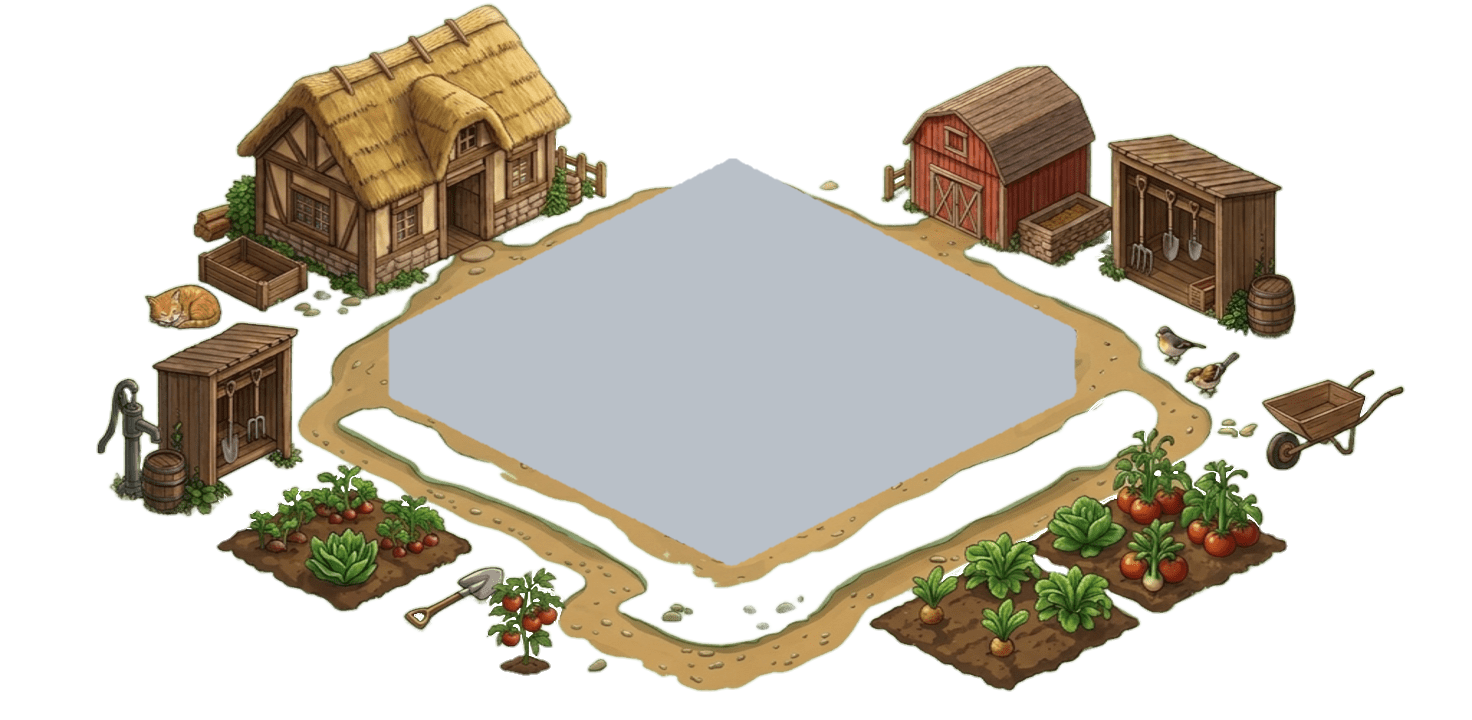
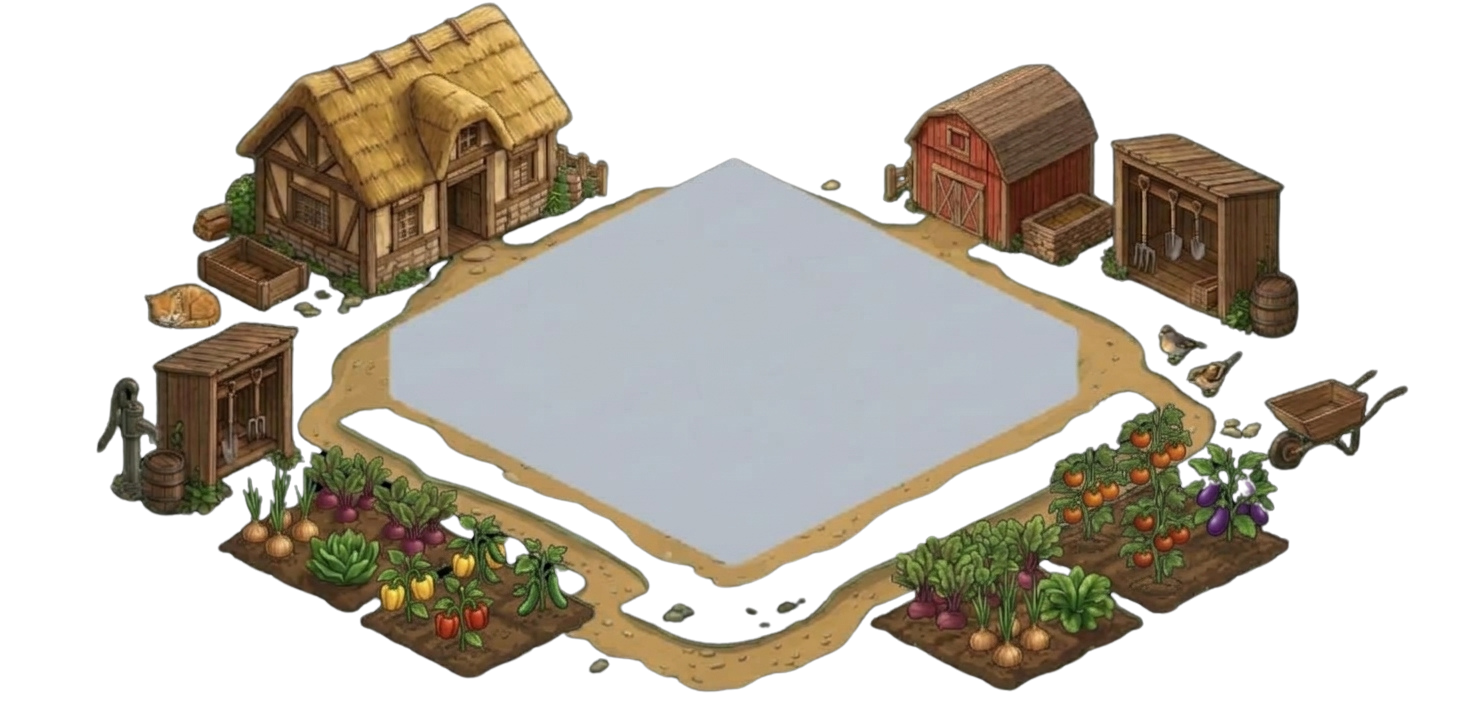
ホームの最背面に丘の風景を敷き、下ほどぼかしと霞を強めて畑を引き立てる

diff --git a/front-end/src/pages/Home.css b/front-end/src/pages/Home.css
@@ -1,3 +1,7 @@
+.app-main:has(> .home-container) {
+  background: #d3cea9 url("/VegeTASK_丘.webp") center 30% / cover no-repeat;
+}
+
 .home-container {
   position: relative;
   flex: 1;
